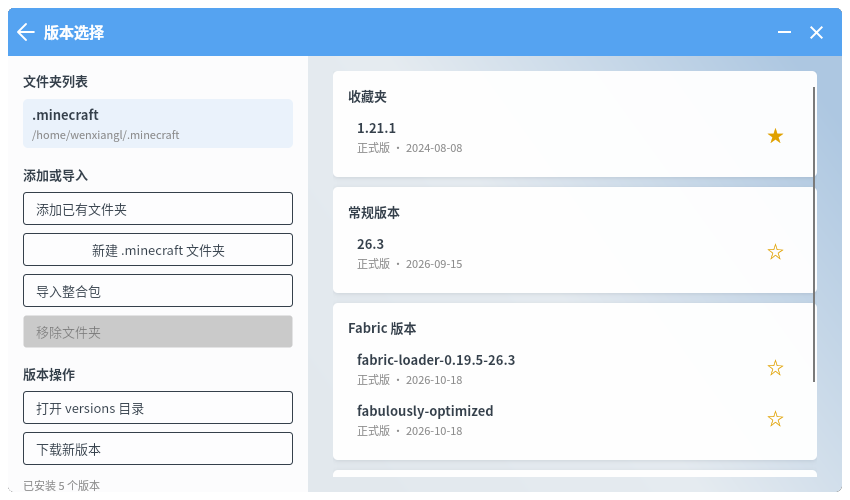
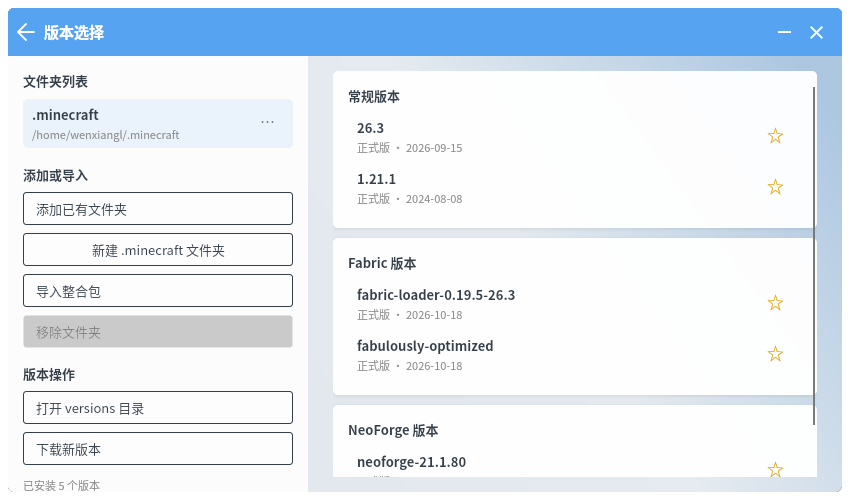
Feature: error group and folder menu

diff --git a/src/WMCL.App/ViewModels/VersionSelectViewModel.cs b/src/WMCL.App/ViewModels/VersionSelectViewModel.cs
@@ -96,6 +96,32 @@ public partial class VersionSelectViewModel : ViewModelBase
         }
     }
 
+    public void OpenGameFolder(GameFolderItem item)
+    {
+        try
+        {
+            Directory.CreateDirectory(item.Path);
+            var start = new ProcessStartInfo
+            {
+                FileName = OperatingSystem.IsWindows() ? item.Path : "xdg-open",
+                Arguments = OperatingSystem.IsWindows() ? "" : item.Path,
+                UseShellExecute = OperatingSystem.IsWindows()
+            };
+            Process.Start(start);
+        }
+        catch
+        {
+            // 打开失败不改变选择状态
+        }
+    }
+
+    public void RemoveFolder(GameFolderItem item)
+    {
+        if (Folders.Count <= 1) return;
+        _services.RemoveGameFolder(item.Path);
+        ReloadFolders();
+    }
+
     public void AddFolder(string path)
     {
         if (string.IsNullOrWhiteSpace(path)) return;
@@ -137,6 +163,7 @@ public partial class VersionSelectViewModel : ViewModelBase
 
         var titles = new (string Category, string Title)[]
         {
+            ("error", "错误的版本"),
             ("vanilla", "常规版本"),
             ("fabric", "Fabric 版本"),
             ("forge", "Forge 版本"),

diff --git a/src/WMCL.App/Views/VersionSelectView.axaml.cs b/src/WMCL.App/Views/VersionSelectView.axaml.cs
@@ -10,6 +10,20 @@ public partial class VersionSelectView : UserControl
 {
     public VersionSelectView() => InitializeComponent();
 
+    private void OnFolderMenuOpenClick(object? sender, RoutedEventArgs e)
+    {
+        if (sender is MenuItem { Tag: GameFolderItem folder } &&
+            DataContext is VersionSelectViewModel viewModel)
+            viewModel.OpenGameFolder(folder);
+    }
+
+    private void OnFolderMenuRemoveClick(object? sender, RoutedEventArgs e)
+    {
+        if (sender is MenuItem { Tag: GameFolderItem folder } &&
+            DataContext is VersionSelectViewModel viewModel)
+            viewModel.RemoveFolder(folder);
+    }
+
     private void OnFavoriteClick(object? sender, RoutedEventArgs e)
     {
         e.Handled = true;

diff --git a/src/WMCL.App/ViewModels/VersionCatalog.cs b/src/WMCL.App/ViewModels/VersionCatalog.cs
@@ -27,7 +27,8 @@ public sealed class VersionCatalog(VersionRepository repository)
             }
             catch
             {
-                // 损坏的实例仍显示，分类退回原版
+                // 损坏的实例仍显示，归入“错误的版本”。
+                category = "error";
             }
             result.Add(new VersionItem
             {

diff --git a/docs/LINK_VERSION_LOGIC_AUDIT.md b/docs/LINK_VERSION_LOGIC_AUDIT.md
@@ -18,8 +18,8 @@
 
 - PCL2 官方房间服务依赖闭源配置，本项目无法使用；联机页仍是 **EasyTier 手动网络 / 陶瓦 Terracotta** 替代方案，不是 PCL2 的官方房间列表和玩家列表。
 - 联机页不会自动启动 Minecraft 或自动加入服务器；房主仍需在游戏内“对局域网开放”，客人手动连接显示的地址。
-- 版本选择页右侧已改为按加载器分组卡片（收藏夹/常规/Fabric/Forge/NeoForge/Quilt/OptiFine/其他）；收藏项不再在普通组重复出现。PCL2 还支持隐藏版本、错误版本、愚人节版本等分组。
-- 左侧已支持多文件夹列表、添加已有文件夹、新建 `.minecraft` 文件夹、导入整合包、移除文件夹和切换目录。
+- 版本选择页右侧已改为按加载器分组卡片（收藏夹/常规/Fabric/Forge/NeoForge/Quilt/OptiFine/错误的版本/其他）；收藏项不再在普通组重复出现。损坏实例归入“错误的版本”。PCL2 还支持隐藏版本、愚人节版本分组。
+- 左侧已支持多文件夹列表、添加已有文件夹、新建 `.minecraft` 文件夹、导入整合包、移除文件夹、切换目录和文件夹齿轮菜单。
 - `AutoFallbackToTerracotta` 默认开启，EasyTier 失败会自动切到陶瓦；不需要时可在界面关掉。
 - 陶瓦/TUN/EasyTier 仍依赖本机权限、二进制下载和网络环境。
 
